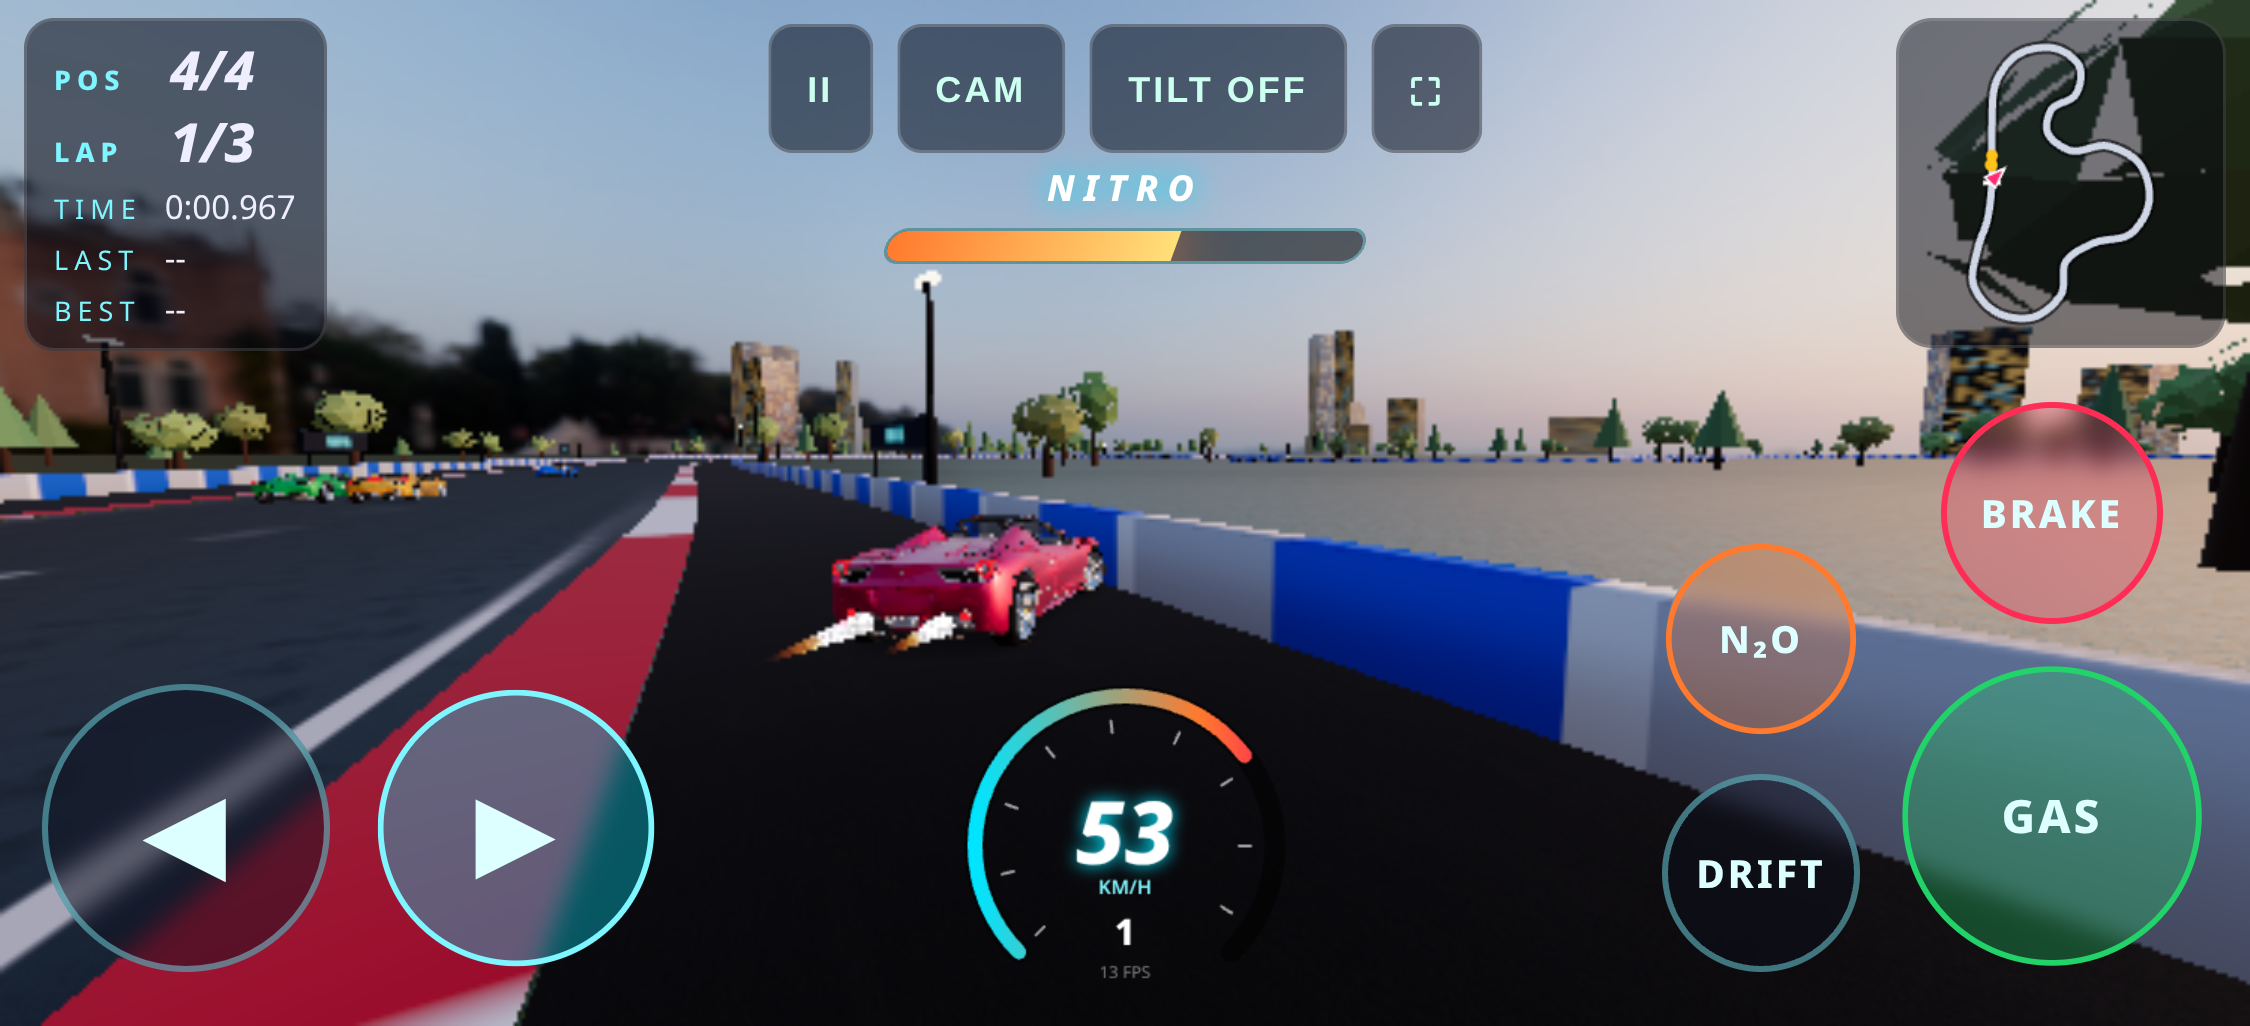
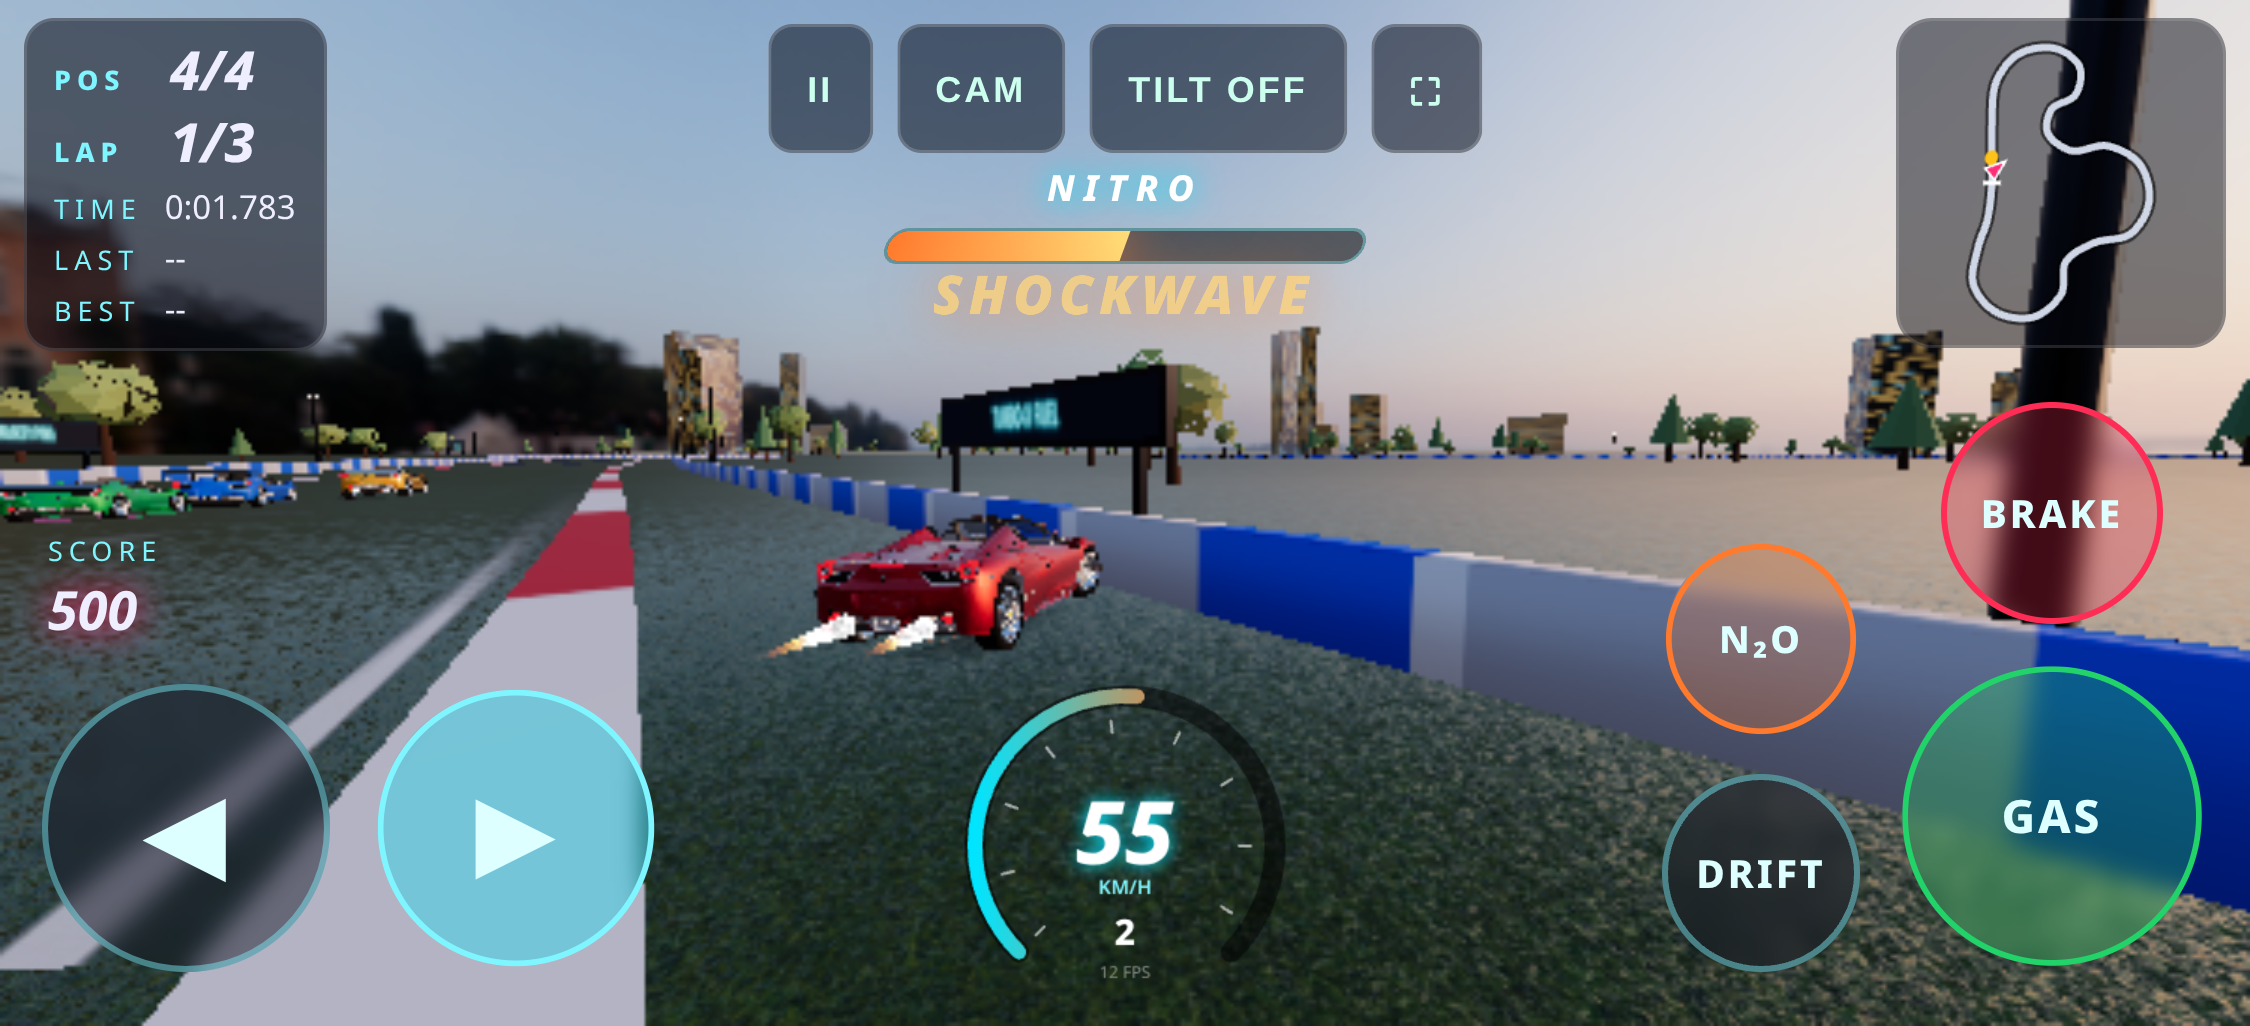
test: flow test (menus, garage, perfect start, championship, TT ghost), mobile test taps through new menus; touch HUD layout fixes

diff --git a/src/style.css b/src/style.css
@@ -220,3 +220,13 @@ body.swapped .t-right { right: auto; left: calc(14px + env(safe-area-inset-left)
 
 .menu-wide > button.back { width: auto; min-width: 180px; margin: 0 auto; }
 .row3 label { justify-content: center; }
+/* touch: keep the score clear of the top buttons + nitro bar */
+body.touch #h-scorebox { top: auto; bottom: 126px; left: calc(16px + env(safe-area-inset-left)); transform: none; text-align: left; }
+body.touch.swapped #h-scorebox { left: auto; right: calc(16px + env(safe-area-inset-right)); text-align: right; }
+body.touch #popups { top: 36%; } body.touch #combo { top: 27%; }
+@media (max-height: 500px) {
+  #g-best, .gpanel .hint { display: none; }
+  .gpanel h2 { margin-bottom: 2px; font-size: 16px; }
+  .screen.results .card { width: min(520px, 62vw); padding: 10px 14px; max-height: 96vh; }
+  .menu-col .tag { display: none; }
+}

diff --git a/src/main.ts b/src/main.ts
@@ -1147,6 +1147,8 @@ function setLoad(f: number, label: string) { $('ld-fill').style.width = `${Math.
     bankDrift(); hud.flash('FINISH!', 2.4); state = 'finishing'; finishT = 0;
   },
   get state() { return state; },
+  get countdown() { return countdown; },
+  get delta() { return document.getElementById('h-delta')!.textContent; },
   get screen() { return screen; },
   get mode() { return mode; },
   get track() { return worldId; },
